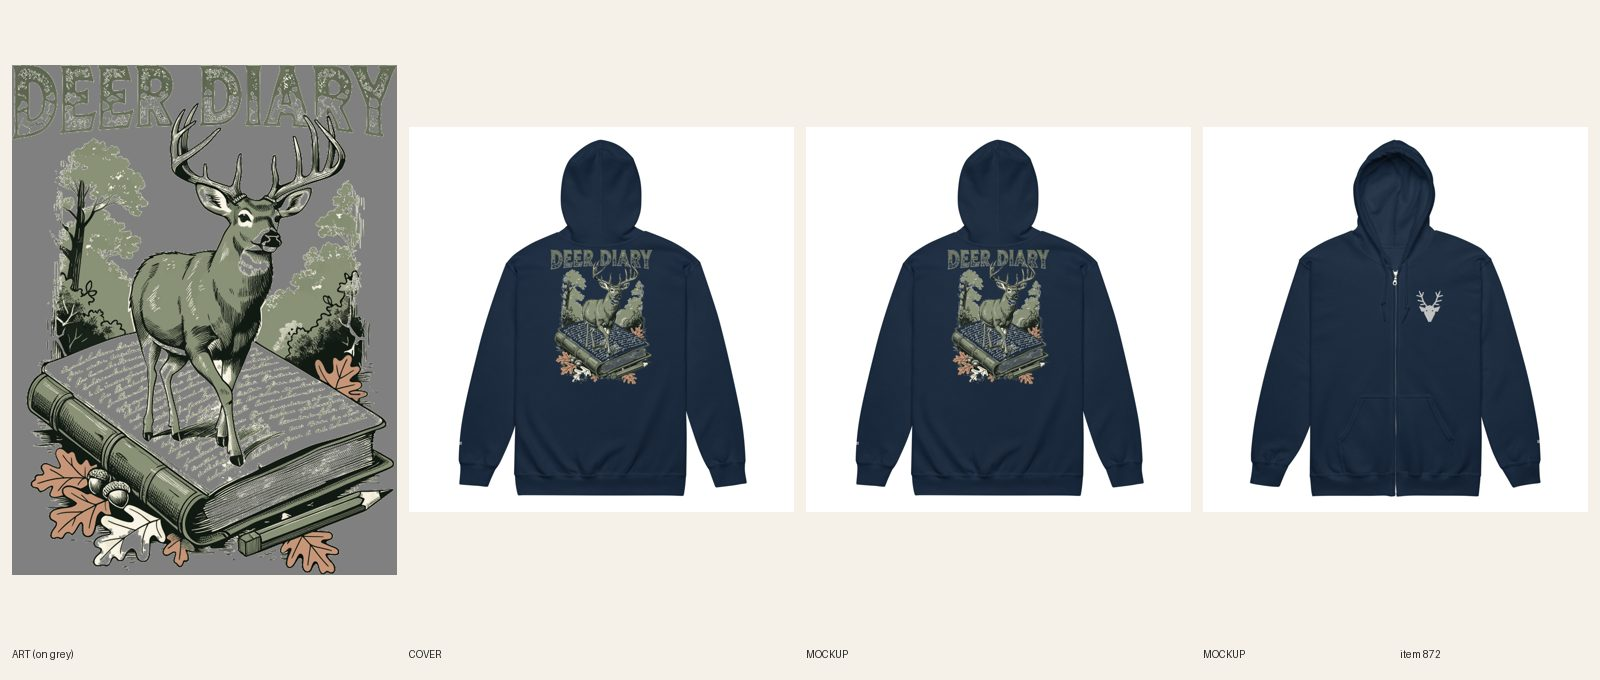
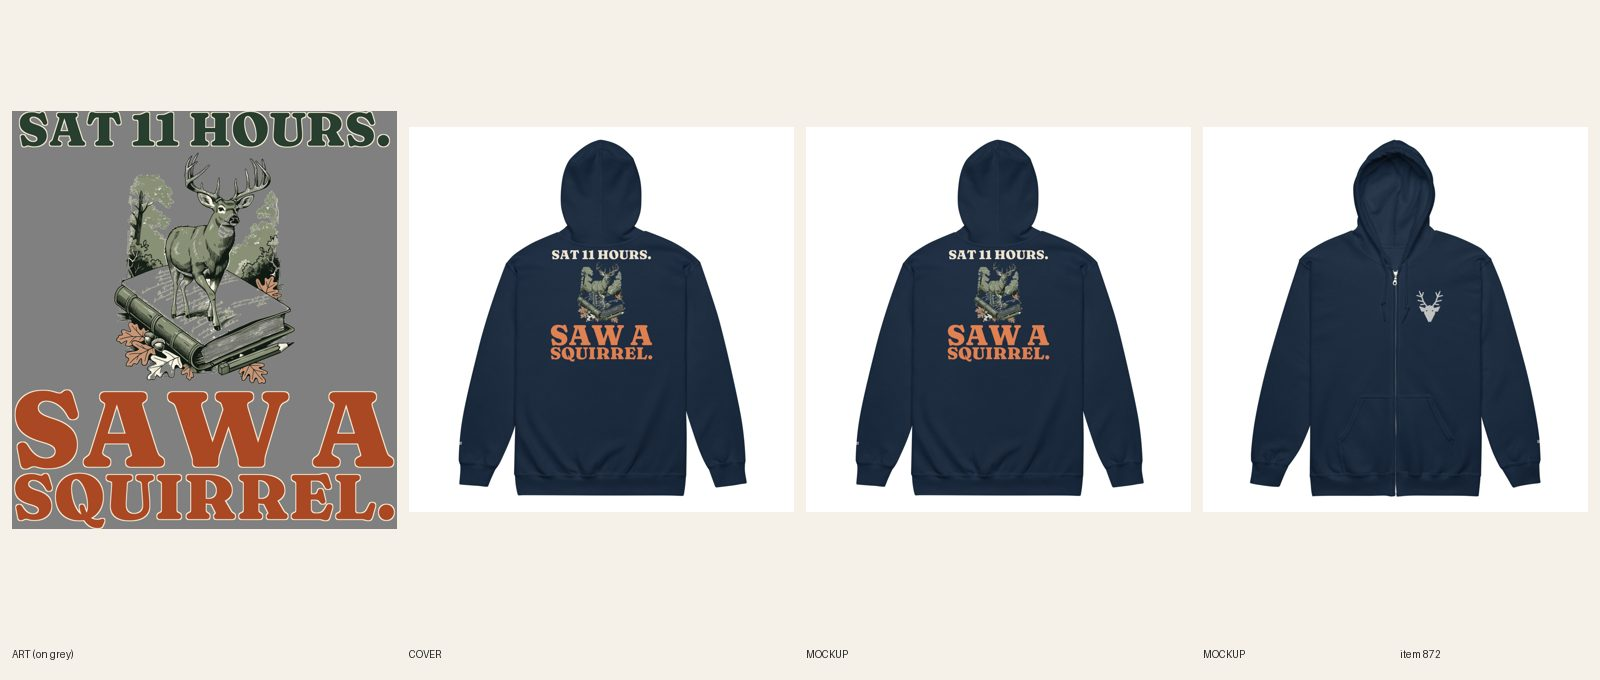
[C] review 872 redo (Sat 11 Hours. Saw a Squirrel.)
Claude-Session: https://claude.ai/code/session_01SCArfZ8derTSnP9ReWDDat

Changed region(s): [[0.0, 0.0926, 0.25, 0.8647], [0.5938, 0.3706, 0.6562, 0.5559], [0.3438, 0.3706, 0.4062, 0.5559]]

diff --git a/docs/pipeline/872-zip-standard-deer-diary.md b/docs/pipeline/872-zip-standard-deer-diary.md
@@ -1,4 +1,4 @@
-status: BUILDING [C] 2026-10-21T11:10Z
+status: REVIEW
 lane: C
 type: redo
 id: 872
@@ -27,3 +27,4 @@ push: zip
 - 2026-10-21 08:50 UTC director: brief written, READY (zip upgrade + line rewrite, lane C, push: zip; registry row 1038 claimed).
 - 2026-10-21 10:30 UTC builder [C]: zip standard built IN PLACE, REVIEW. Printful 12/12 (Ash 6 + Navy 6) verified from GET /sync/products: back 1091027903 on both colors (3600 x 4769 art; width set to 1781 of 1800 px so the 2360 px area height is not exceeded, no stretch), Ash chest 1091027815 / wrist 1091027854, Navy chest 1091027690 / wrist 1091027742. Colors are Ash + Navy now (the near-twin Sport Grey was replaced; Navy variants created, 4XL/5XL dropped). 7p: the back has one headline (DEER DIARY, 3595 px wide) and no punch line, so there is no pair to measure. Chest: icon DRAWN BY HAND IN PIL (a buck head with a wide rack: face wedge, two ears, two-sided beams with tines) because fal is out of balance; one thread (white on Navy, #333366 on Ash); wrist SAT in Anton 0.35 in caps. All 12 variants $57.99 no compare-at (made 10-16); title 'Men's Hunting – Deer Diary Embroidered Zip Hoodie'; Story, bullet and 5 FAQs (embroidery care + order-by Dec 8). Photos: Navy back, Ash back (new), Navy chest front, Ash chest front. No new cover (fal empty): the existing AI cover stays, registry 1038 stays claimed. FLAG for the director: this is an old (pre-reset) design, sage DEER DIARY and a muted sage buck on a journal; it reads on Ash and on Navy on the mockups (the Navy dark linework thins out) but it is not an A-grade punch line, so a stronger redesign is worth a brief. Audit PASS (0 warn).
 - 2026-10-21 10:40 UTC director: REDO. 1. Brief + R3.1/R3.13: the brief asked for a new line (DEER DIARY is a sound-alike pun graded below the bar); the build kept DEER DIARY with no punch. Re-set with compose-print.py: pick SAW NOTHING. / LOVED IT. or SAT 11 HOURS. / SAW A SQUIRREL. (both fit this art: buck on a journal in the woods), log 3 candidates, punch at least as wide as the setup (7h numbers). 2. R5.3.8: the sage pattern-filled DEER DIARY lettering sits low-contrast on Navy and is a textured fill (R5.3.10); new lettering in solid cream on Navy, solid dark ink on Ash, with a keyline at most. 3. Title, SEO, first sentence and keyword-map line follow the new line (primary 'deer hunting hoodie' stays). Re-sync, new mockups and sheet. $0 fal.
+- 2026-10-21 11:20 UTC builder [C]: REDO round 2, REVIEW. 1. New line (R3.1/R3.13): candidates SAW NOTHING. / LOVED IT.; SAT 11 HOURS. / SAW A SQUIRREL.; NO DEER. / GREAT JERKY.; kept the director's second one (SAT 11 HOURS. / SAW A SQUIRREL.). Grep of docs/pipeline for 'sat 11 hours' and 'saw a squirrel' finds only this item; no web search done for it. The old DEER DIARY lettering was erased from the back art by connected components plus a color key on the two letters that touched the antler tips (art_clean.py, viewed: antlers and journal intact, no letter remnants), then re-set with designs/lib.py in Fraunces (a face none of my last five builds used: Bowlby One on #457/#458, Bevan on #821, the kept originals on the redos). Print 3000 x 3261: 7h headline SAT 11 HOURS. 2891 px / punch SAW A 2958 px and SQUIRREL. 2966 px (102.3% and 102.6%); 7k type 1350 of 3261 px = 41.4%; 7l subject 1410 of 3000 px = 47.0%. 2. R5.3.8/R5.3.10: solid lettering, no pattern fill: Ash file 1091041199 has a dark green headline and rust punch with a cream keyline; Navy file 1091041233 has a cream headline and orange punch with a navy keyline. 3. Title now 'Men's Hunting – Sat 11 Hours. Saw a Squirrel. Embroidered Zip Hoodie', SEO title 'Deer Hunting Hoodie for Men – Sat 11 Hours. Zip-Up', meta, Story line one, bullet and FAQs rewritten (the old sage-lettering FAQ now describes the new colors); keyword-map claim 'deer hunting hoodie' unchanged (it is in the SEO title). Re-synced 12/12 (Ash 6 + Navy 6): back as above, chest 1091027815 / 1091027690, wrist 1091027854 / 1091027742, verified from GET /sync/products; new Navy and Ash back mockups replaced in place on the Shopify product. Cover unchanged (no AI cover possible, fal empty). fal $0.

diff --git a/docs/intake-log.md b/docs/intake-log.md
@@ -17,6 +17,7 @@
 2026-10-21 08:47 UTC — [H] Helper run: Telegram inbox empty (0 updates, nothing to log). Audit: 0 scripted ERRORs, 123 WARN (polish, left as is); cohesion-audit.md committed. Fixed a missing esbuild by running npm ci (the audit could not run without it). Category check: 0 products without a Shopify category. Freshness: womens-chihuahua-cold-since-birth-zip-hoodie, mens-papa-has-a-spot-wont-say-where-camo-hoodie, mens-catfish-caught-something-ugly-kept-it-anyway-camo-hoodie all 200. Stuck work: none (lane B lock 07:28, newest BUILDING #839 at 08:03). Daily summary not due (before 12:00 UTC). Lock released.
 2026-10-21 08:35 UTC — [E] Builder run end: #822 AOP pink camo zip built to REVIEW. fal wallet exhausted again (storage 403), so every other lane E item (all new art: #723 #745 #748 #749 #751 #752 #827 #836; #851 PARKED, #852-#858 gated on it) waits for a top-up. Lock released.
 RUNNING lane C since 2026-10-21 08:27 UTC
+2026-10-21 11:20 UTC — [C] Builder run: REDO #872 Deer zip round 2 (SAT 11 HOURS. / SAW A SQUIRREL., art re-set in Fraunces, solid ink files), re-synced 12/12, REVIEW. fal $0.
 2026-10-21 11:15 UTC — [C] Builder run: #863 Casting Doubt zip upgraded in place to the embroidered standard (fly chest + DOUBT cuff + printed back, Ash + Navy, $57.99), 14/14, REVIEW. fal $0.
 2026-10-21 10:50 UTC — [C] Builder run: #864 Kaiju Naps zip upgraded in place to the embroidered standard (sleeping-kaiju chest + ZZZ cuff + printed back, Navy + Ash, $57.99), 14/14, REVIEW. fal $0.
 2026-10-21 10:45 UTC — [C] Builder run: #871 Reel Talk zip upgraded in place to the embroidered standard (bass chest + BIG cuff + printed back, Ash + Navy, $57.99), 14/14, REVIEW. fal $0.
